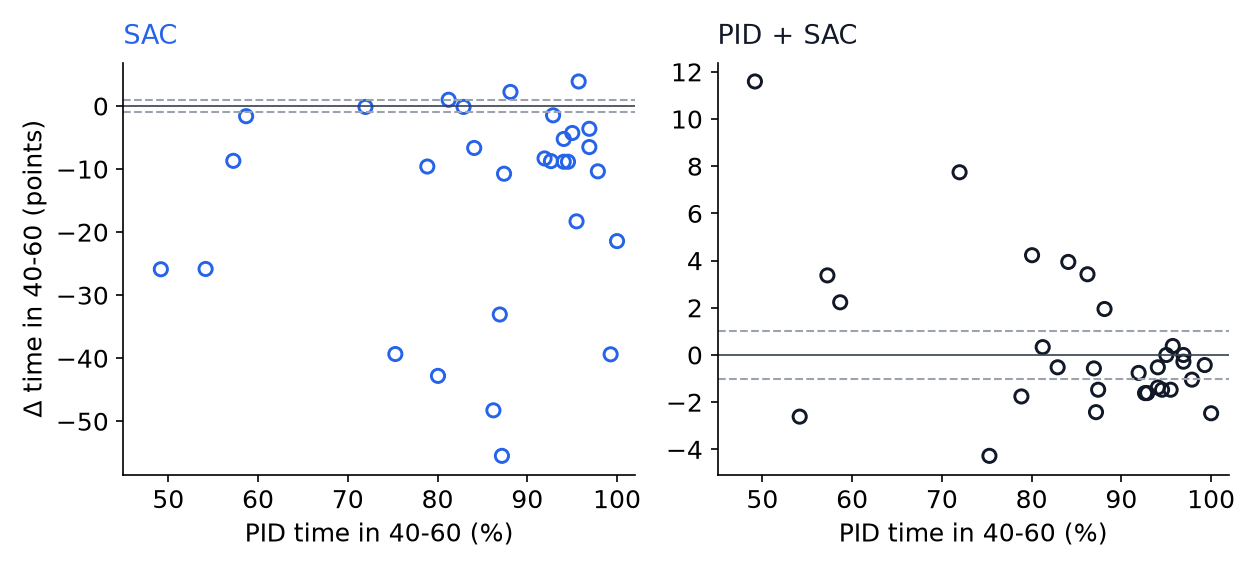
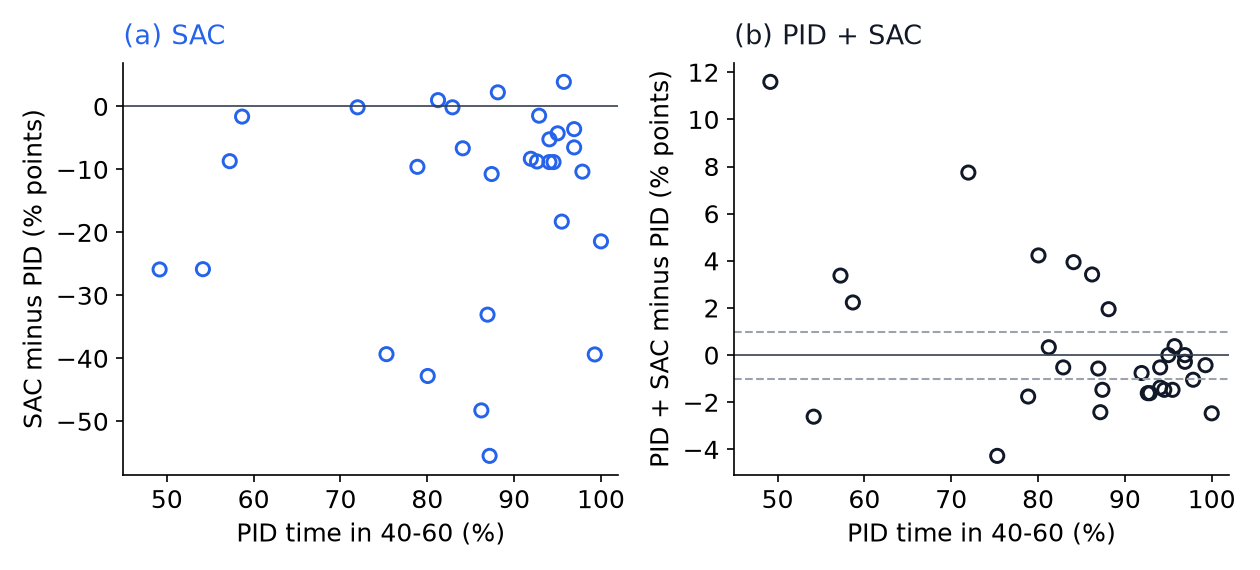
Figures: labelled panels, patient labels inside the axes

diff --git a/benchmark.py b/benchmark.py
@@ -121,16 +121,17 @@ def style(ax):
 def figure_paired(pp):
     rl = [n for n in ('SAC', 'PID + SAC') if n in pp]
     fig, axes = plt.subplots(1, len(rl), figsize=(4.2 * len(rl), 3.8), dpi=150, sharex=True)
-    for ax, n in zip(np.atleast_1d(axes), rl):
+    for k, (ax, n) in enumerate(zip(np.atleast_1d(axes), rl)):
         d = pp[n] - pp['PID']
-        for y in (-1, 1): ax.axhline(y, color='#9CA3AF', lw=1, ls='--')
+        if np.abs(d).max() < 20:   # a +-1 point band is only visible on a small scale
+            for y in (-1, 1): ax.axhline(y, color='#9CA3AF', lw=1, ls='--')
         ax.axhline(0, color='#374151', lw=0.8)
         ax.scatter(pp['PID'], d, s=40, facecolors='none', edgecolors=C[n], lw=1.4)
-        ax.text(0.0, 1.03, n, transform=ax.transAxes, color=C[n], fontsize=13, va='bottom')
+        ax.text(0.0, 1.03, f'({"ab"[k]}) {n}', transform=ax.transAxes, color=C[n], fontsize=13, va='bottom')
         ax.yaxis.set_major_locator(MaxNLocator(integer=True, steps=[1, 2, 5, 10]))
         ax.set_xlabel('PID time in 40-60 (%)', fontsize=12)
+        ax.set_ylabel(f'{n} minus PID (% points)', fontsize=12)
         ax.set_xlim(45, 102); style(ax)
-    np.atleast_1d(axes)[0].set_ylabel('Δ time in 40-60 (points)', fontsize=12)
     fig.tight_layout(); fig.savefig('media/paired_patients.png'); plt.close(fig)
 
 
@@ -146,7 +147,8 @@ def figure_traces(models, idx=(0, 3, 8, 11, 19, 26)):
                 ax.fill_between(t, 0, 100, where=stim, color='#9CA3AF', alpha=0.18, lw=0)
             ax.plot(t, [s['bis'] for s in tr], color=C[lab], lw=1.6, label=lab)
         ax.axhspan(40, 60, color=C_TARGET, alpha=0.18, lw=0)
-        ax.text(0.0, 1.03, describe(pats[i]), transform=ax.transAxes, fontsize=12, va='bottom', ha='left')
+        ax.text(0.98, 0.97, describe(pats[i]), transform=ax.transAxes, fontsize=11, va='top', ha='right',
+                bbox=dict(fc='white', ec='none', pad=1, alpha=0.8))
         ax.set_ylim(0, 100); ax.set_xlim(0, 40); ax.set_xticks([0, 10, 20, 30, 40]); style(ax)
     for ax in axes[:, 0]: ax.set_ylabel('BIS', fontsize=12)
     for ax in axes[1]: ax.set_xlabel('Time (min)', fontsize=12)
